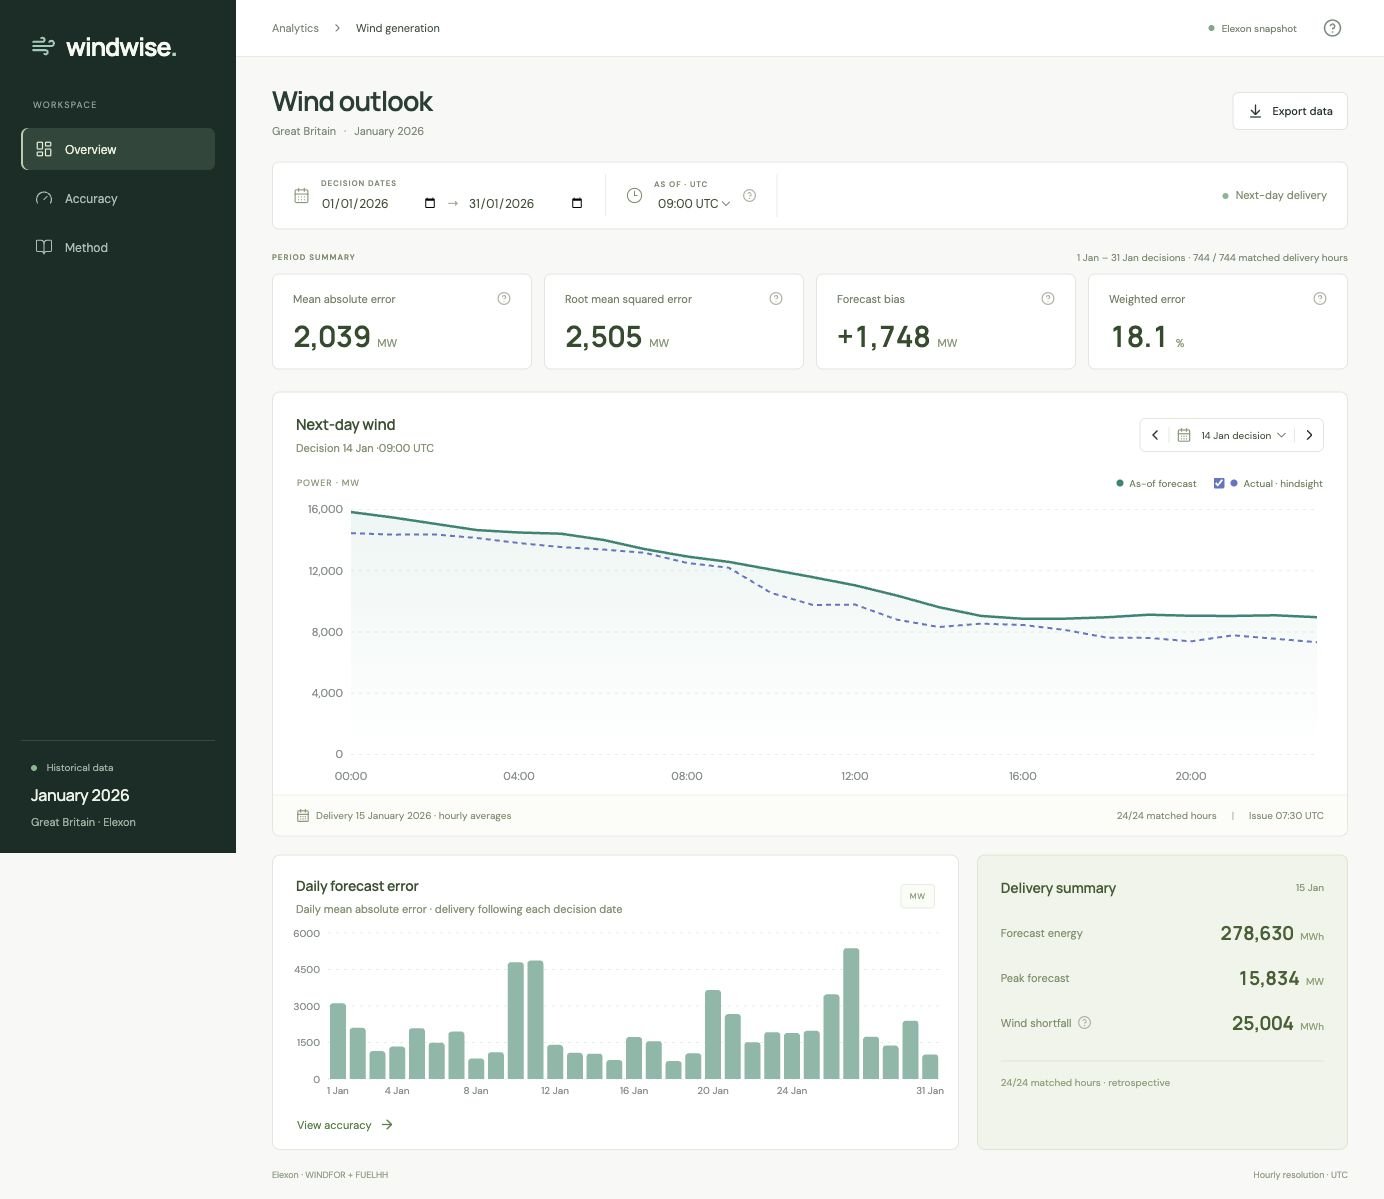
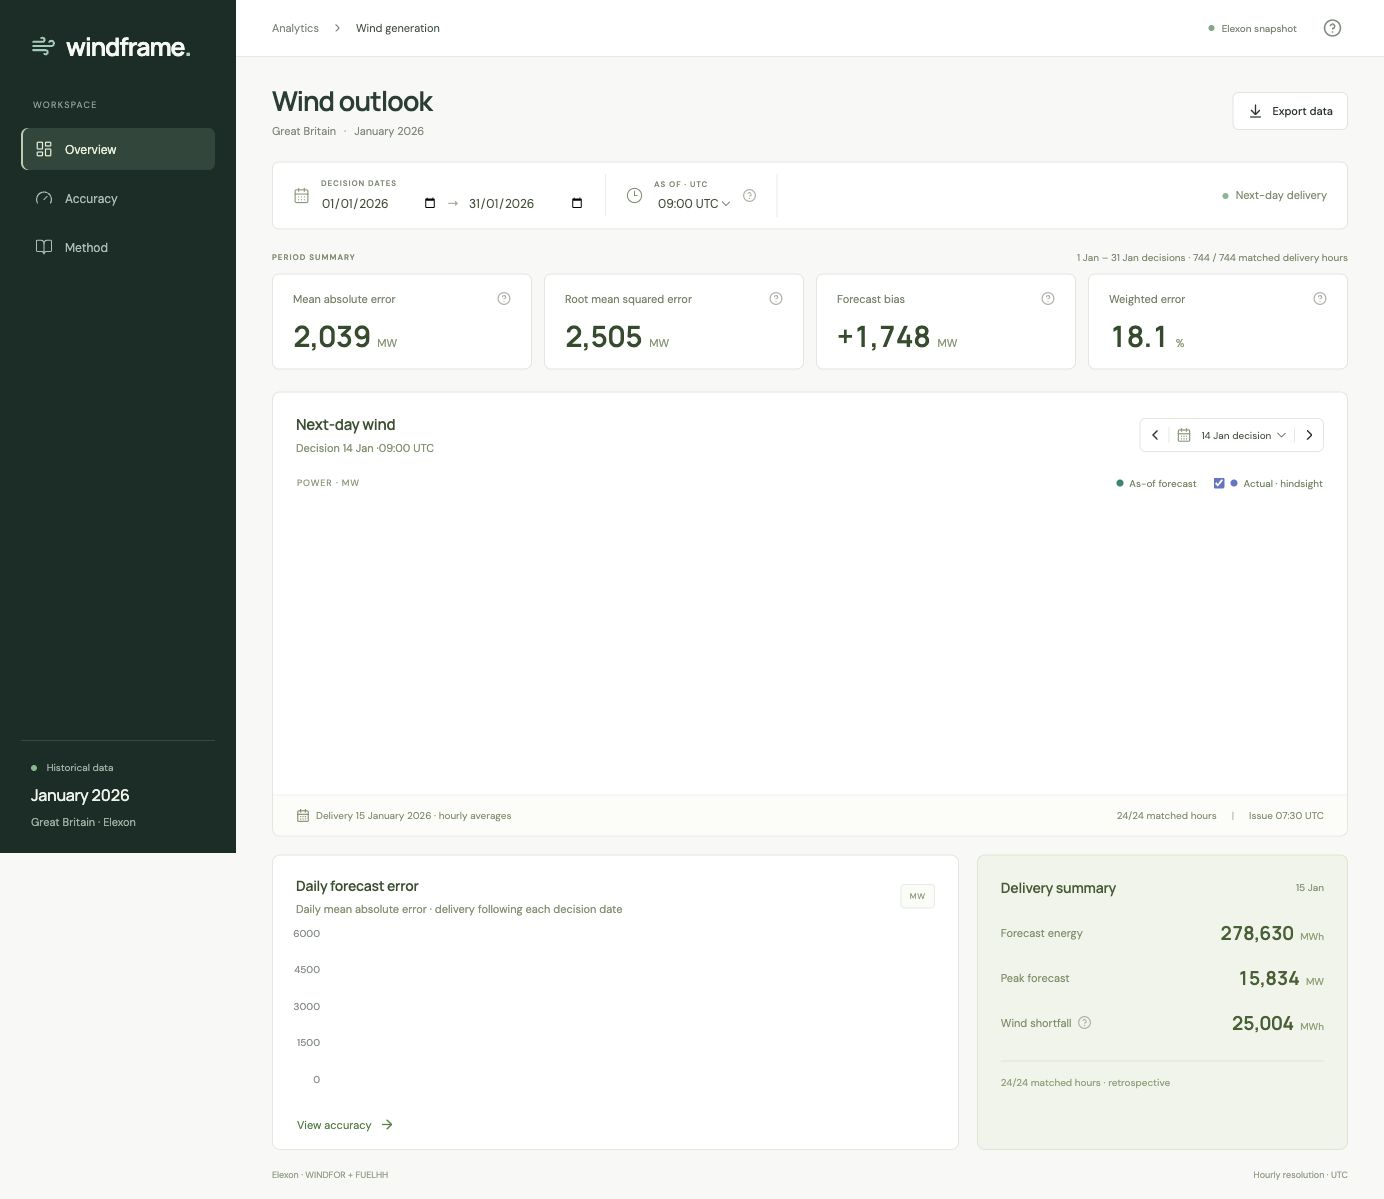
Rename application to Windframe

diff --git a/frontend/src/main.tsx b/frontend/src/main.tsx
@@ -122,7 +122,7 @@ function App() {
           <span className="brand-icon">
             <Wind size={25} />
           </span>
-          windwise<span className="brand-dot">.</span>
+          windframe<span className="brand-dot">.</span>
         </a>
         <div className="workspace">WORKSPACE</div>
         <nav aria-label="Main navigation">
@@ -608,7 +608,7 @@ function App() {
               <X size={20} />
             </button>
             <Wind size={30} />
-            <h2>Using Windwise</h2>
+            <h2>Using Windframe</h2>
             <p>
               Choose decision dates and a cutoff. The outlook shows the forecast
               available for next-day delivery.

diff --git a/index.html b/index.html
@@ -8,7 +8,7 @@
       name="description"
       content="An auditable day-ahead wind forecasting workspace using Elexon national generation data."
     />
-    <title>Windwise · Day-ahead intelligence</title>
+    <title>Windframe · Day-ahead intelligence</title>
   </head>
   <body>
     <div id="root"></div>

diff --git a/backend/app.py b/backend/app.py
@@ -7,7 +7,7 @@ from fastapi.responses import Response
 
 from backend.analysis import report, source
 
-app = FastAPI(title="Windwise API", version="1.0.0")
+app = FastAPI(title="Windframe API", version="1.0.0")
 
 
 def checked_report(decision_from, decision_to, cutoff_hour):
@@ -48,7 +48,7 @@ def export(
         out.getvalue(),
         media_type="text/csv",
         headers={
-            "Content-Disposition": 'attachment; filename="windwise-hourly.csv"',
+            "Content-Disposition": 'attachment; filename="windframe-hourly.csv"',
             "X-Snapshot-SHA256": result["provenance"]["sha256"],
         },
     )

diff --git a/README.md b/README.md
@@ -1,11 +1,11 @@
-# Windwise
+# Windframe
 
 A compact day-ahead wind forecasting workspace for Great Britain. Inspect the forecast available at a historical decision time, compare it with observed generation, and export every selected hourly record.
 
 **Live app:** https://q7m2kx.vercel.app  
 **Repository:** https://github.com/divyadityabhardwaj/q7m2kx
 
-![Windwise overview](assets/overview.jpg)
+![Windframe overview](assets/overview.jpg)
 
 ## Run
 
@@ -116,7 +116,7 @@ Invalid or reversed dates, decisions outside January and cutoffs outside 0–23 
 ```sh
 npm run build
 .venv/bin/python -m pytest -q
-docker build -t windwise .
+docker build -t windframe .
 ```
 
 Tests cover exact-cutoff inclusion, later-issue exclusion, complete half-hour alignment, missing values, signed error, metric formulas, zero denominators, percentile interpolation, snapshot integrity, boundary dates, early-cutoff gaps, API validation and CSV export. CI runs on pushes and pull requests. Browser checks cover navigation, date filters, cutoff changes, actual visibility and responsive layouts.
